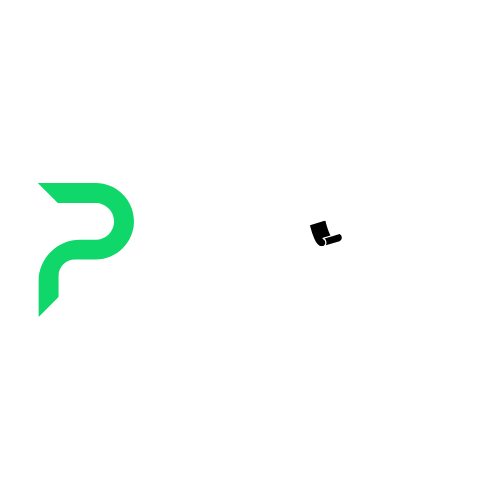
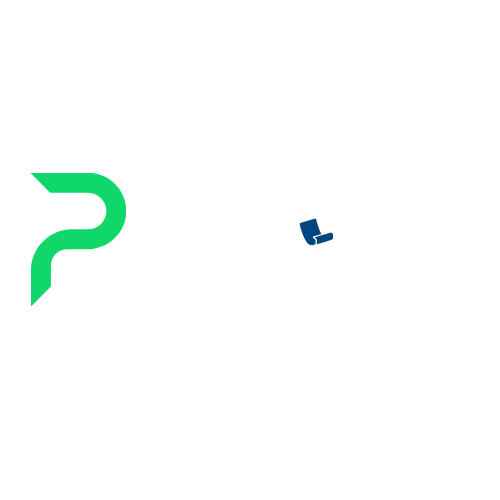
I think it's done

Changed region(s): [[0.06, 0.39, 0.27, 0.63], [0.06, 0.33, 0.24, 0.42], [0.6, 0.42, 0.69, 0.51]]

diff --git a/assets/css/custom.css b/assets/css/custom.css
@@ -126,18 +126,12 @@ body::before {
   margin-right: auto;
   margin-bottom: 0.8rem;
 
-  /* 🔹 MICĂ CORECȚIE OPTICĂ (DREAPTA) */
-  transform: translateX(-15px);
-
   /* 🔹 ANIMAȚIE */
   opacity: 0;
   /* animation: peFadeUp 800ms ease-out 120ms forwards; */
   /* animation: peFadeUp 1200ms ease-out 200ms forwards; */
   animation: peWow 1100ms cubic-bezier(0.16, 1, 0.3, 1) 150ms forwards;
-
-
 }
-
 
 /* Title + paragraph animation (subtle, premium) */
 #intro .pe-hero-title {
@@ -575,3 +569,25 @@ header.major h2 {
   color: var(--pe-green);
   font-weight: 900;
 }
+
+
+/* Mobile: add space between "difference" section and footer contact */
+@media (max-width: 736px) {
+  .pe-difference {
+    margin-bottom: 1.5rem !important;  /* scoatem efectul de lipire */
+  }
+
+  #footer {
+    margin-top: 1.25rem !important;    /* aer între sectiuni */
+  }
+}
+
+/* MOBILE: more space between title and intro text */
+@media (max-width: 736px) {
+
+  /* mai mult spațiu SUB titlu */
+  #intro .pe-hero-title {
+    margin-bottom: 6rem !important;
+  }
+}
+
